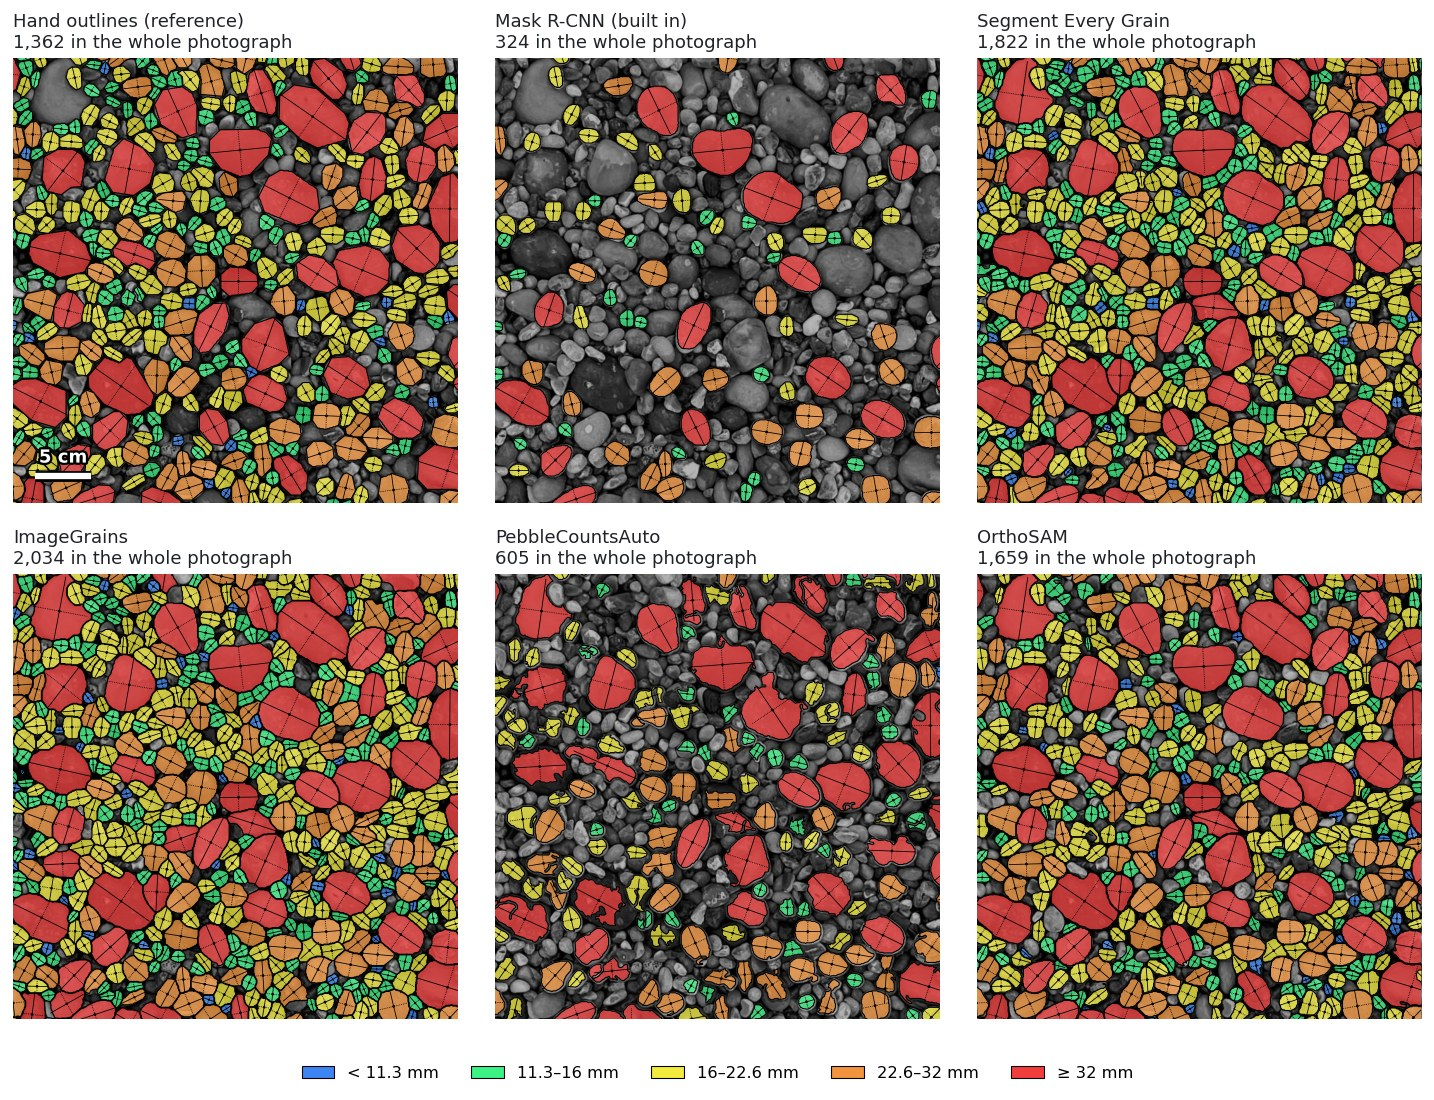
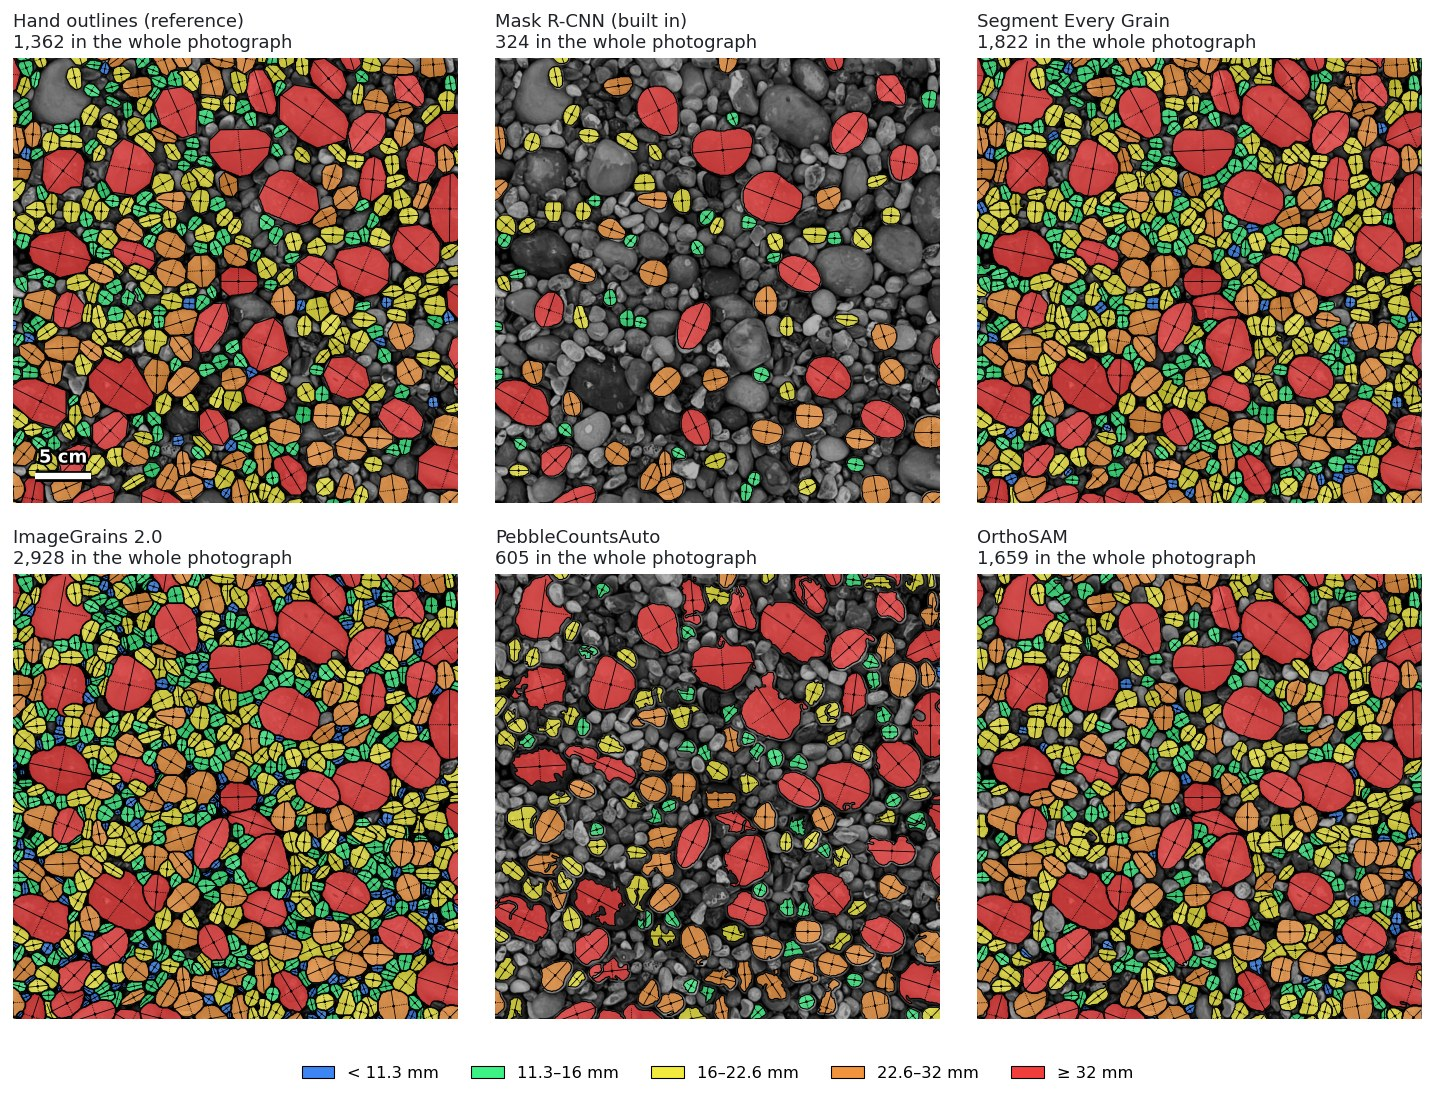
Comparison with ImageGrains 2.0 and 1.2 as separate models

Changed region(s): [[0.0, 0.4945, 0.3375, 0.9273]]

diff --git a/README.md b/README.md
@@ -125,14 +125,16 @@ Also cite SAM 2 (Ravi et al., 2024).
 The rectified quadrat photograph of PebbleMapper's `example_03_Etretat` (IMG_0955: 0.84 m
 frame, 0.567 mm/px, a densely packed flint beach, 1,362 surface clasts outlined by hand)
 was run through every model PebbleMapper can use, with the frame band left out and each
-clast measured by PebbleMapper's own step.
+clast measured by PebbleMapper's own step. The ImageGrains plug-in provides two models,
+ImageGrains 2.0 and 1.2.
 
 | Model | Detections | True positives | Recall | Precision | F1 | Length RMSE | D50 | D84 | Time per photograph |
 |---|---|---|---|---|---|---|---|---|---|
 | Hand outlines (reference) | 1,362 | | | | | | 17.7 mm | 26.5 mm | |
 | Mask R-CNN (PebbleMapper, built in) | 324 | 320 | 0.23 | 0.99 | 0.38 | 1.6 mm | 20.2 mm | 34.2 mm | 41 s (GPU) |
 | Segment Every Grain | 1,822 | 1,350 | 0.99 | 0.74 | 0.85 | 1.0 mm | 17.7 mm | 26.3 mm | 259 s (GPU) |
-| ImageGrains | 2,034 | 1,316 | 0.97 | 0.65 | 0.78 | 1.7 mm | 17.2 mm | 26.0 mm | 51 s (CPU) |
+| ImageGrains 2.0 | 2,928 | 1,346 | 0.99 | 0.46 | 0.63 | 1.4 mm | 14.5 mm | 22.1 mm | 154 s (GPU) |
+| ImageGrains 1.2 | 2,034 | 1,316 | 0.97 | 0.65 | 0.78 | 1.7 mm | 17.2 mm | 26.0 mm | 51 s (CPU) |
 | PebbleCountsAuto | 605 | 491 | 0.36 | 0.81 | 0.50 | 4.1 mm | 21.0 mm | 35.3 mm | 17 s (CPU) |
 | OrthoSAM | 1,659 | 1,079 | 0.79 | 0.65 | 0.71 | 1.4 mm | 17.6 mm | 26.8 mm | 430 s (GPU) |
 
@@ -145,11 +147,11 @@ positives) follow from the table. Length RMSE is computed on the true positives.
 
 The hand outlines leave out many of the smallest grains between the larger clasts, so a
 detection with no hand-outlined partner is not necessarily wrong, and precision is a
-lower bound. The hand outlines started from Segment Every Grain's detections, which
-favours that model here. Times are for one photograph once the model is loaded (loading
-adds 20 to 70 s once per run), on a 2018 laptop (Intel Core i7-8850H, NVIDIA Quadro P600
-with 4 GB). ImageGrains' environment installs the processor build of PyTorch, and
-PebbleCountsAuto has no GPU code.
+lower bound. ImageGrains 2.0 outlines most of those small grains, which is why its D50 is
+lower. The hand outlines started from Segment Every Grain's detections, which favours
+that model here. Times are for one photograph once the model is loaded (loading adds 7 to
+70 s once per run), on a 2018 laptop (Intel Core i7-8850H, NVIDIA Quadro P600 with 4 GB).
+ImageGrains 1.2 and PebbleCountsAuto run on the CPU.
 
 <p align="center">
   <img src="docs/figures/same-photo-seg.jpg" alt="The example quadrat through Segment Every Grain" width="70%"/>
@@ -157,11 +159,11 @@ PebbleCountsAuto has no GPU code.
 <p align="center"><em>Segment Every Grain's detections on the whole photograph, each clast filled by size class and outlined, its long and short axes drawn.</em></p>
 
 <p align="center">
-  <img src="docs/figures/same-photo-all-models.jpg" alt="A 40 cm crop of the example quadrat: the hand outlines and the five models" width="100%"/>
+  <img src="docs/figures/same-photo-all-models.jpg" alt="A 40 cm crop of the example quadrat: the hand outlines and five of the models" width="100%"/>
 </p>
-<p align="center"><em>A 40 cm crop of the same photograph: the hand outlines and each model's detections, on the same size classes in every panel.</em></p>
+<p align="center"><em>A 40 cm crop of the same photograph: the hand outlines and each model's detections (ImageGrains 2.0 for ImageGrains), on the same size classes in every panel.</em></p>
 
 <p align="center">
-  <img src="docs/figures/same-photo-cdf.png" alt="Cumulative size distributions of the hand outlines and the five models" width="70%"/>
+  <img src="docs/figures/same-photo-cdf.png" alt="Cumulative size distributions of the hand outlines and the six models" width="70%"/>
 </p>
 <p align="center"><em>Cumulative distributions of clast length, D50 (circle) and D84 (square) marked; the grey band is below 8 pixels, the detection limit of this photograph.</em></p>
